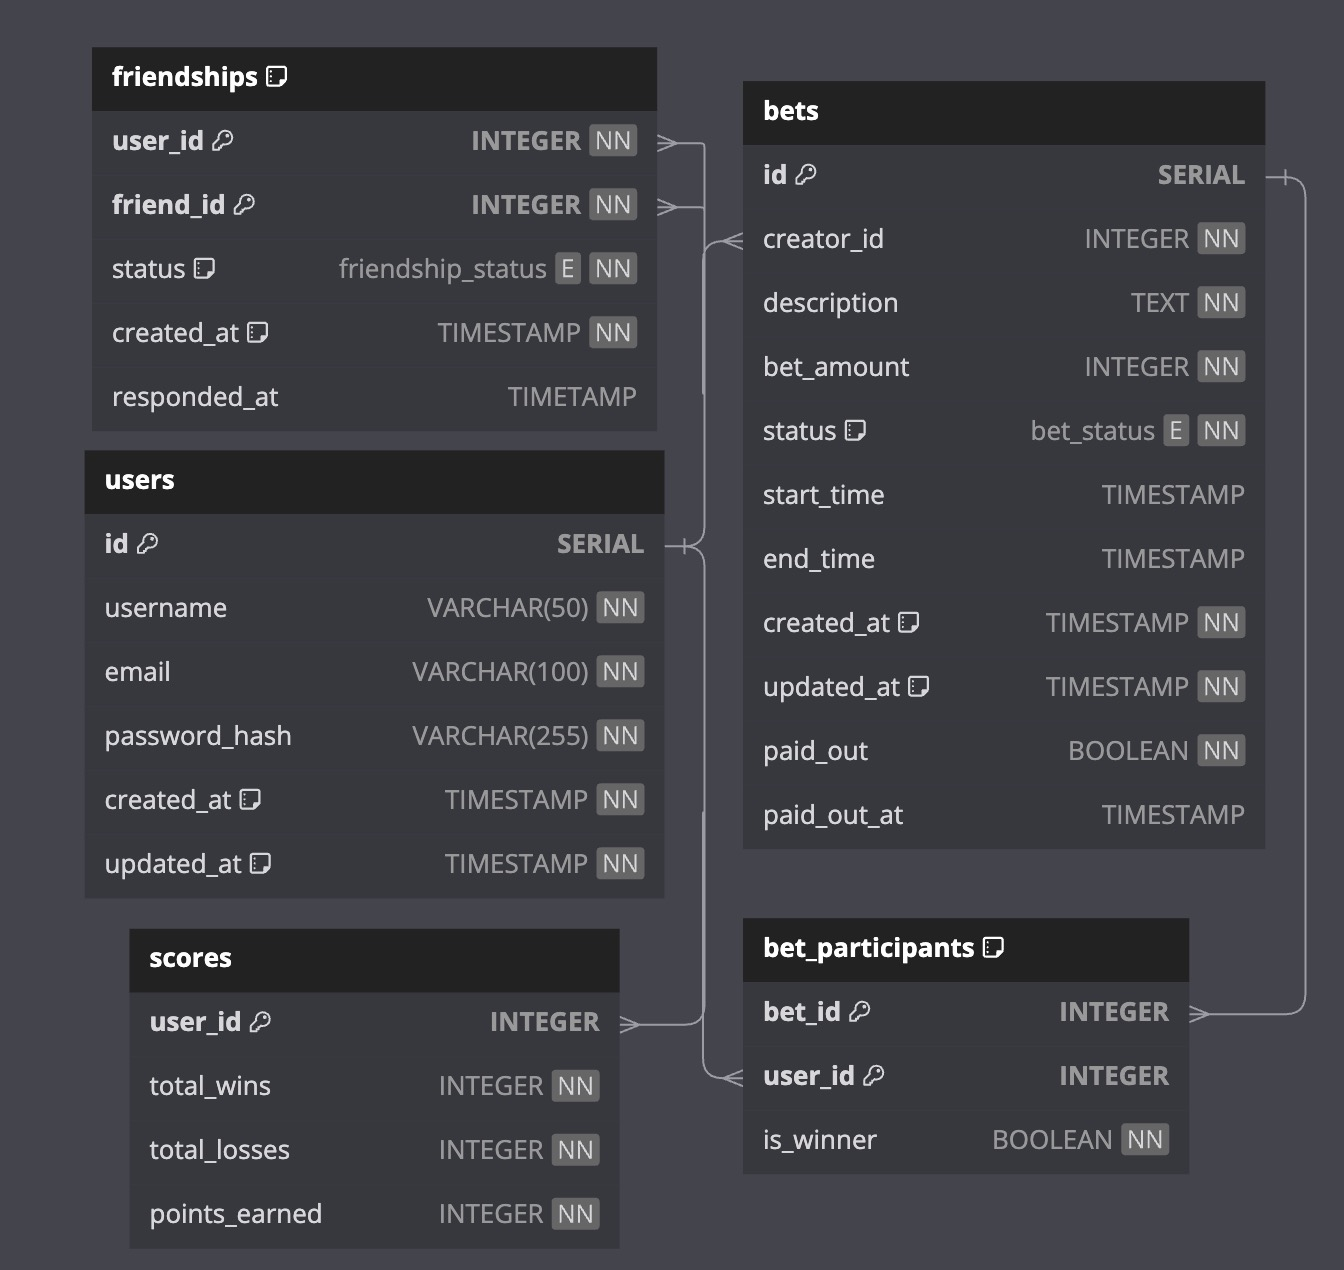
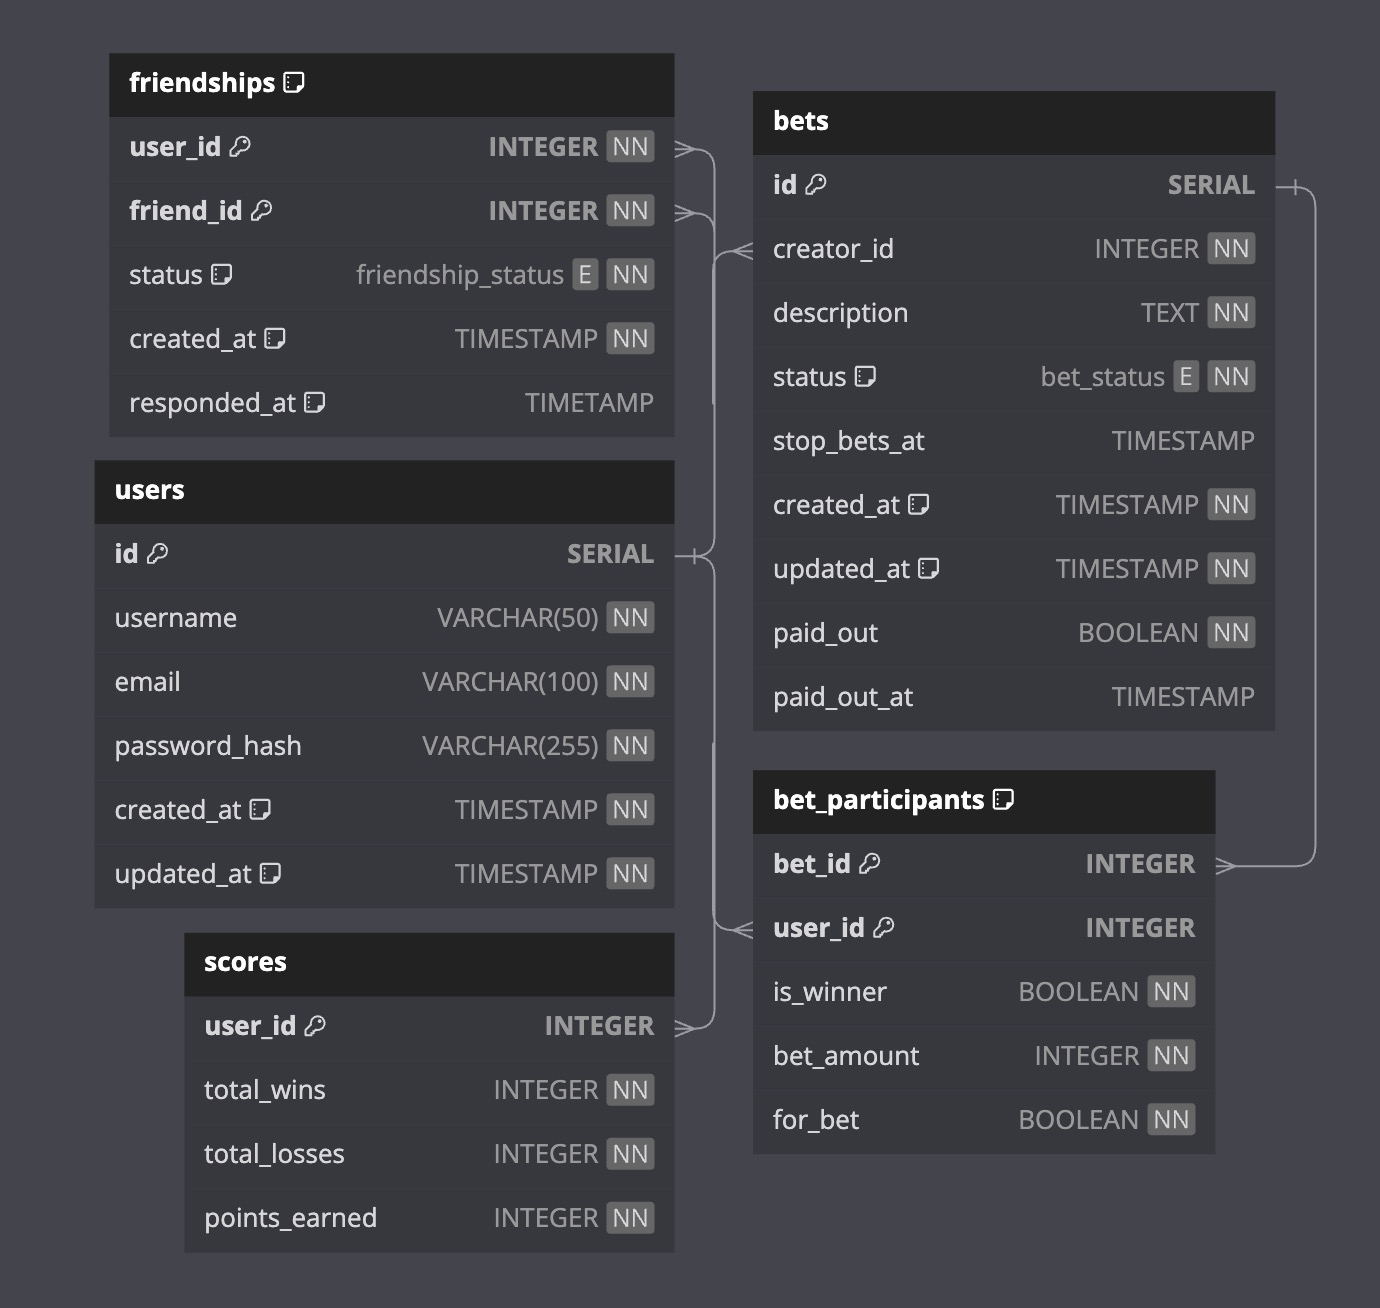
create basic bets repository Need to finish some todos after finishing the bet_participants repository

diff --git a/backend/src/repositories/bets.rs b/backend/src/repositories/bets.rs
@@ -1,0 +1,180 @@
+#![allow(dead_code)]
+
+use sqlx::types::chrono::NaiveDateTime;
+
+use crate::models::{Bet, BetStatus, User};
+use crate::AllResult;
+
+pub async fn get_bet_by_id(connection: &sqlx::PgPool, id: i32) -> AllResult<Bet> {
+    let bet = sqlx::query_as!(
+        Bet,
+        r#"
+        SELECT id, creator_id, description, status AS "status: BetStatus",
+        stop_bets_at, created_at, updated_at, paid_out, paid_out_at
+        FROM bets WHERE id = $1
+        "#,
+        id,
+    )
+    .fetch_one(connection)
+    .await?;
+    Ok(bet)
+}
+
+pub async fn get_bets_by_status(connection: &sqlx::PgPool, status: &BetStatus) -> AllResult<Bet> {
+    let bet = sqlx::query_as!(
+        Bet,
+        r#"
+        SELECT id, creator_id, description, status AS "status: BetStatus",
+        stop_bets_at, created_at, updated_at, paid_out, paid_out_at
+        FROM bets WHERE status = $1
+        "#,
+        status as _,
+    )
+    .fetch_one(connection)
+    .await?;
+    Ok(bet)
+}
+
+pub async fn create_timeless_bet(
+    connection: &sqlx::PgPool,
+    user: &User,
+    description: String,
+) -> AllResult<Bet> {
+    let bet = sqlx::query_as!(
+        Bet,
+        r#"
+        INSERT INTO bets (creator_id, description, status, paid_out)
+        VALUES ($1, $2, $3, FALSE)
+        RETURNING id, creator_id, description, status AS "status: BetStatus",
+        stop_bets_at, created_at, updated_at, paid_out, paid_out_at
+        "#,
+        user.id,
+        description,
+        BetStatus::Active as _
+    )
+    .fetch_one(connection)
+    .await?;
+    Ok(bet)
+}
+
+pub async fn create_timed_bet(
+    connection: &sqlx::PgPool,
+    user: &User,
+    description: String,
+    stop_bets_at: NaiveDateTime,
+) -> AllResult<Bet> {
+    let bet = sqlx::query_as!(
+        Bet,
+        r#"
+        INSERT INTO bets (creator_id, description, status, paid_out, stop_bets_at)
+        VALUES ($1, $2, $3, FALSE, $4)
+        RETURNING id, creator_id, description, status AS "status: BetStatus",
+        stop_bets_at, created_at, updated_at, paid_out, paid_out_at
+        "#,
+        user.id,
+        description,
+        BetStatus::Active as _,
+        stop_bets_at
+    )
+    .fetch_one(connection)
+    .await?;
+    Ok(bet)
+}
+
+pub async fn close_bet(connection: &sqlx::PgPool, bet: Bet) -> AllResult<Bet> {
+    assert_eq!(bet.status, BetStatus::Active);
+    assert_eq!(bet.stop_bets_at, None);
+    let bet = sqlx::query_as!(
+        Bet,
+        r#"
+        UPDATE bets
+        SET status = $1
+        WHERE id = $2
+        RETURNING id, creator_id, description, status AS "status: BetStatus",
+        stop_bets_at, created_at, updated_at, paid_out, paid_out_at
+        "#,
+        BetStatus::Finished as _,
+        bet.id
+    )
+    .fetch_one(connection)
+    .await?;
+    Ok(bet)
+}
+
+pub async fn payout_bet(connection: &sqlx::PgPool, bet: Bet) -> AllResult<Bet> {
+    assert_eq!(bet.status, BetStatus::Finished);
+    todo!("Need to payout each bet participant");
+    let bet = sqlx::query_as!(
+        Bet,
+        r#"
+        UPDATE bets
+        SET status = $1
+        WHERE id = $2
+        RETURNING id, creator_id, description, status AS "status: BetStatus",
+        stop_bets_at, created_at, updated_at, paid_out, paid_out_at
+        "#,
+        BetStatus::PayedOut as _,
+        bet.id
+    )
+    .fetch_one(connection)
+    .await?;
+    Ok(bet)
+}
+
+#[cfg(test)]
+mod tests {
+    use super::*;
+    use crate::repositories::users::create_users;
+    use sqlx::PgPool;
+
+    #[sqlx::test]
+    async fn create_and_read_bet(pool: PgPool) -> AllResult<()> {
+        let mut users = create_users(&pool, vec!["Bob"]).await?;
+        let bob = users.pop().unwrap();
+
+        let created_bet =
+            create_timeless_bet(&pool, &bob, String::from("test_description")).await?;
+        assert_eq!(created_bet.creator_id, bob.id);
+        assert_eq!(created_bet.description, String::from("test_description"));
+        assert_eq!(created_bet.paid_out, false);
+        assert_eq!(created_bet.status, BetStatus::Active);
+
+        let read_bet = get_bet_by_id(&pool, bob.id).await?;
+        assert_eq!(created_bet, read_bet);
+
+        Ok(())
+    }
+
+    #[sqlx::test]
+    async fn run_bet_no_participants(pool: PgPool) -> AllResult<()> {
+        let mut users = create_users(&pool, vec!["Bob"]).await?;
+        let bob = users.pop().unwrap();
+
+        let bet = create_timeless_bet(&pool, &bob, String::from("test_description")).await?;
+
+        assert_eq!(bet.status, BetStatus::Active);
+
+        let bet_copy = bet.clone();
+        let bet = close_bet(&pool, bet).await?;
+
+        assert_eq!(bet_copy.id, bet.id);
+        assert_eq!(bet_copy.creator_id, bet.creator_id);
+        assert_ne!(bet_copy.updated_at, bet.updated_at);
+        assert_eq!(bet.status, BetStatus::Finished);
+
+        let bet_copy = bet.clone();
+        let bet = payout_bet(&pool, bet).await?;
+
+        assert_eq!(bet_copy.id, bet.id);
+        assert_eq!(bet_copy.creator_id, bet.creator_id);
+        assert_ne!(bet_copy.updated_at, bet.updated_at);
+        assert_eq!(bet.status, BetStatus::PayedOut);
+
+        Ok(())
+    }
+
+    #[sqlx::test]
+    async fn run_bet_with_participants(pool: PgPool) -> AllResult<()> {
+        todo!()
+    }
+}

diff --git a/backend/src/models.rs b/backend/src/models.rs
@@ -28,29 +28,26 @@ pub struct Friendship {
     pub created_at: chrono::NaiveDateTime,
 }
 
-#[derive(sqlx::Type, PartialEq, Debug)]
-#[sqlx(rename_all = "lowercase")]
+#[derive(sqlx::Type, PartialEq, Debug, Clone, Copy)]
+#[sqlx(type_name = "bet_status", rename_all = "lowercase")]
 pub enum BetStatus {
-    #[sqlx(rename = "not_started")]
-    NotStarted,
     Active,
     Finished,
     #[sqlx(rename = "payed_out")]
     PayedOut,
 }
 
+#[derive(Debug, PartialEq, Clone)]
 pub struct Bet {
     pub id: i32,
     pub creator_id: i32,
     pub description: String,
-    pub bet_amount: i32,
     pub status: BetStatus,
-    pub start_time: chrono::NaiveDateTime,
-    pub end_time: chrono::NaiveDateTime,
+    pub stop_bets_at: Option<chrono::NaiveDateTime>,
     pub created_at: chrono::NaiveDateTime,
     pub updated_at: chrono::NaiveDateTime,
     pub paid_out: bool,
-    pub paid_out_at: chrono::NaiveDateTime,
+    pub paid_out_at: Option<chrono::NaiveDateTime>,
 }
 
 #[derive(Debug, PartialEq)]
@@ -65,4 +62,5 @@ pub struct BetParticipant {
     pub bet_id: i32,
     pub user_id: i32,
     pub is_winner: bool,
+    pub bet_amount: i32,
 }

diff --git a/backend/src/repositories/mod.rs b/backend/src/repositories/mod.rs
@@ -1,3 +1,4 @@
+pub mod bets;
 pub mod friendships;
 pub mod scores;
 pub mod users;
